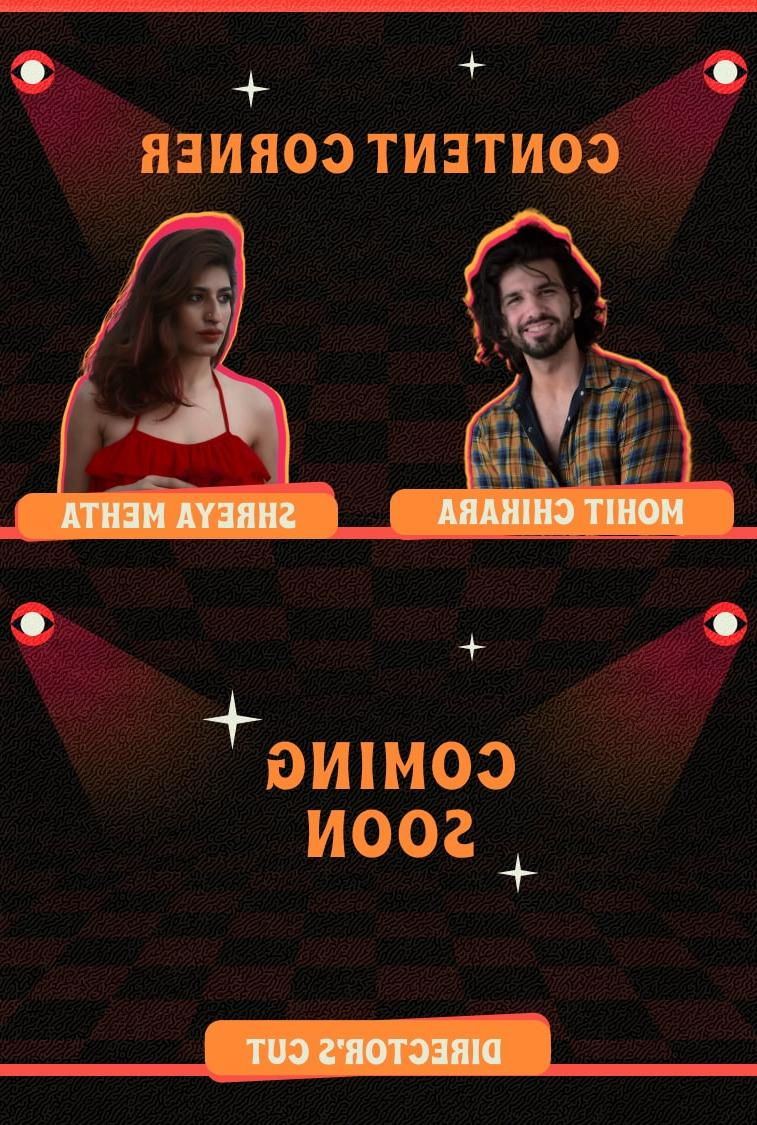
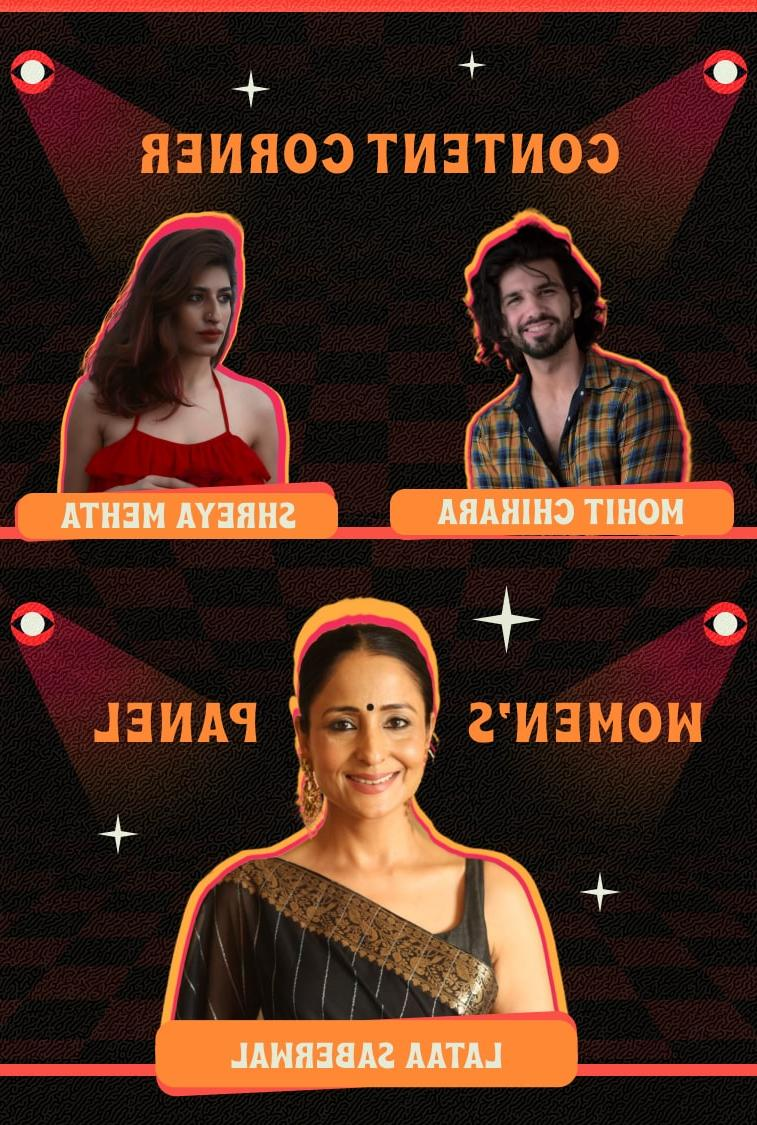
update_events3d_events2d

diff --git a/src/app/events/events.js b/src/app/events/events.js
@@ -35,6 +35,7 @@ import creators_i1 from '/public/events2d_img/cc1.png'
 import creators_i2 from '/public/events2d_img/cc2.png'
 import creators_i3 from '/public/events2d_img/cc3.png'
 import creators_i4 from '/public/events2d_img/cc4.png'
+import creators_i5 from '/public/events2d_img/cc5.png'
 
 import flickeringa_i1 from '/public/events2d_img/f1.png'
 import flickeringa_i2 from '/public/events2d_img/f3.png'
@@ -251,6 +252,14 @@ const data_2d = [
     img: creators_i4,
     description:
       "Unleash your creativity with Shreya Mehta at Alcheringa's Creators Camp. Don't miss this opportunity!",
+  },
+  {
+    key: "KA",
+    field: "CREATORS CAMP",
+    title: "LATAA SABERWAAL",
+    img: creators_i5,
+    description:
+      "Embark on a creative journey with Alcheringa's Creators Camp, led by the renowned Lataa Saberwaal. Unleash your creativity under her guidance and ignite the spark within!",
   },
   {
     key: "L",
